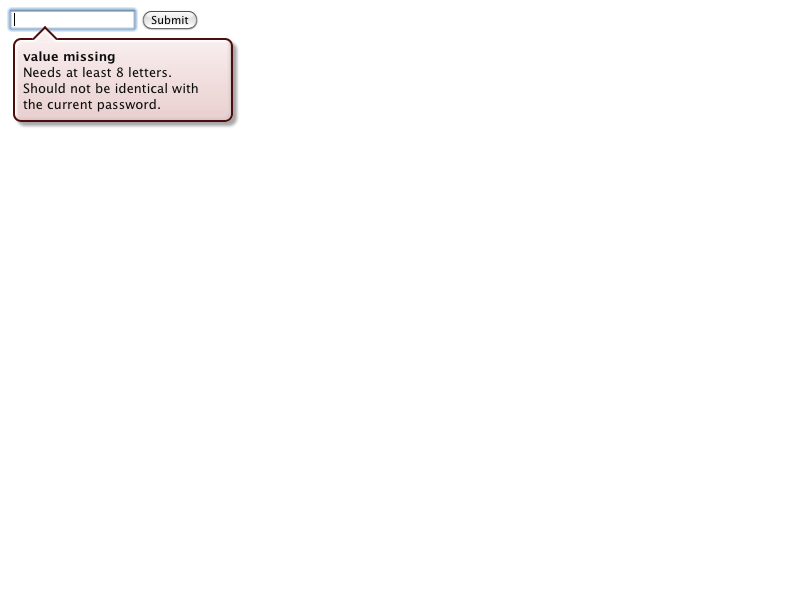
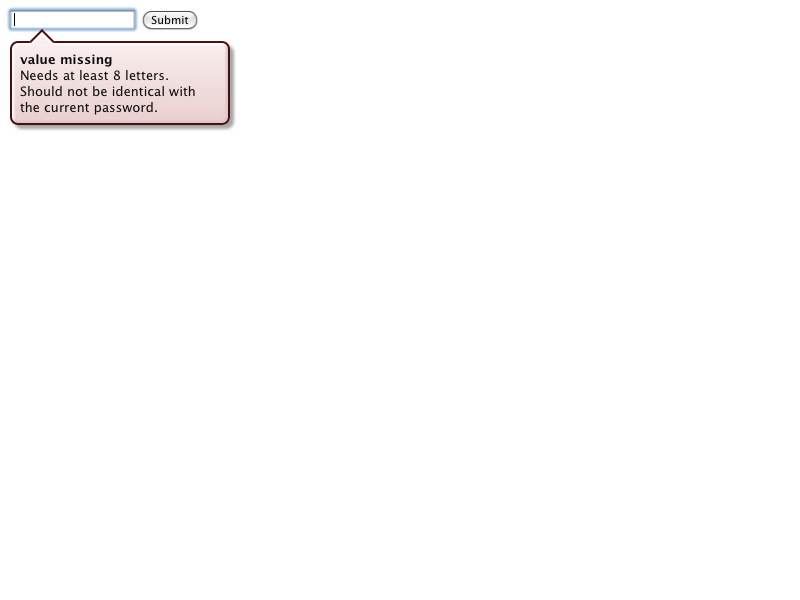
2011-05-11  Kent Tamura  <tkent@chromium.org>
Reviewed by Hajime Morita.

        The position of validation message bubble is wrong for non text fields.
        https://bugs.webkit.org/show_bug.cgi?id=60341

        * fast/forms/resources/common.js: Added. Helper functions for fast/forms.
        * fast/forms/validation-message-on-checkbox-expected.txt: Added.
        * fast/forms/validation-message-on-checkbox.html: Added.
        * fast/forms/validation-message-on-listbox-expected.txt: Added.
        * fast/forms/validation-message-on-listbox.html: Added.
        * fast/forms/validation-message-on-menulist-expected.txt: Added.
        * fast/forms/validation-message-on-menulist.html: Added.
        * fast/forms/validation-message-on-radio-expected.txt: Added.
        * fast/forms/validation-message-on-radio.html: Added.
        * fast/forms/validation-message-on-textarea-expected.txt: Added.
        * fast/forms/validation-message-on-textarea.html: Added.
        * platform/chromium/test_expectations.txt:
        * platform/gtk/Skipped:
        * platform/mac/fast/forms/validation-message-appearance-expected.png: Updated.
        * platform/mac/fast/forms/validation-message-appearance-expected.txt: Updated.
        * platform/qt/Skipped:
        * platform/win/Skipped:
2011-05-11  Kent Tamura  <tkent@chromium.org>

        Reviewed by Hajime Morita.

        The position of validation message bubble is wrong for non text fields.
        https://bugs.webkit.org/show_bug.cgi?id=60341
[…]

Changed region(s): [[0.0, 0.03, 0.3125, 0.24]]

diff --git a/fast/forms/validation-message-on-menulist.html b/fast/forms/validation-message-on-menulist.html
@@ -1,0 +1,51 @@
+<!DOCTYPE html>
+<head>
+<script src="../js/resources/js-test-pre.js"></script>
+<script src="resources/common.js"></script>
+</head>
+<body>
+<p>Check if the appearance of a validation message for &lt;select> is good.</p>
+
+<form action="validation-message-on-menulist.html">
+<select id=host name=select required>
+<option value="">Choose one
+<option>One
+</select>
+<input type=submit id=submit>
+</form>
+
+<div id="console"></div>
+<script>
+function getTextNode(bubble) {
+    return bubble.lastChild.firstChild;
+}
+
+function check() {
+    hostRect = getAbsoluteRect(host);
+    bubbleRect = getAbsoluteRect(getValidationMessageBubbleNode(host));
+    debug('The top of the bubble should be on the bottom of the host node:');
+    shouldBe('bubbleRect.top', 'hostRect.bottom');
+    debug('');
+    debug('A long text should fit in the bubble:');
+    shouldBeGreaterThanOrEqual('getValidationMessageBubbleNode(host).offsetWidth', 'getTextNode(getValidationMessageBubbleNode(host)).offsetWidth');
+    debug('');
+
+    finishJSTest();
+}
+
+var host = $('host');
+var hostRect;
+var bubbleRect;
+host.setCustomValidity('Testing a long validation message in order to check white-space:pre in the UA stylesheet does not affect to the validation message appearance.');
+$('submit').click();
+if (window.layoutTestController) {
+    setTimeout(check, 0);
+} else {
+    debug('The test requires layoutTestController.');
+}
+
+var jsTestIsAsync = true;
+var successfullyParsed = true;
+</script>
+<script src="../js/resources/js-test-post.js"></script>
+</body>

diff --git a/fast/forms/validation-message-on-checkbox.html b/fast/forms/validation-message-on-checkbox.html
@@ -1,0 +1,45 @@
+<!DOCTYPE html>
+<head>
+<script src="../js/resources/js-test-pre.js"></script>
+<script src="resources/common.js"></script>
+</head>
+<body>
+<p>Check if the position of a validation message for a checkbox is good.</p>
+
+<form action="validation-message-on-checkbox.html">
+<input type=checkbox id=host required>
+<input type=submit id=submit>
+</form>
+
+<div id="console"></div>
+<script>
+function check() {
+    hostRect = getAbsoluteRect(host);
+    bubbleRect = getAbsoluteRect(getValidationMessageBubbleNode(host));
+    debug('The top of the bubble should be on the bottom of the host node:');
+    shouldBe('bubbleRect.top', 'hostRect.bottom');
+    debug('');
+    debug('The left position of the bubble should be 0 because of no enough space:');
+    shouldBeTrue('hostRect.left + hostRect.width / 2 < 32');
+    shouldBe('bubbleRect.left', '0');
+    debug('');
+
+    finishJSTest();
+}
+
+var host = $('host');
+var hostRect;
+var bubbleRect;
+$('submit').click();
+if (window.layoutTestController) {
+    setTimeout(check, 0);
+} else {
+    debug('The test requires layoutTestController.');
+}
+
+var jsTestIsAsync = true;
+var successfullyParsed = true;
+</script>
+<script src="../js/resources/js-test-post.js"></script>
+</body>
+

diff --git a/fast/forms/validation-message-on-textarea.html b/fast/forms/validation-message-on-textarea.html
@@ -1,0 +1,43 @@
+<!DOCTYPE html>
+<head>
+<script src="../js/resources/js-test-pre.js"></script>
+<script src="resources/common.js"></script>
+</head>
+<body>
+<p>Check if the position of a validation message for a textarea is good.</p>
+
+<div style="padding: 20px"> <!-- The containing block of the target element is not the body. -->
+<form action="validation-message-on-textarea.html">
+<textarea id=host required style="margin: 31px;"></textarea>
+<input type=submit id=submit>
+</form>
+</div>
+
+<div id="console"></div>
+<script>
+function check() {
+    hostRect = getAbsoluteRect(host);
+    bubbleRect = getAbsoluteRect(getValidationMessageBubbleNode(host));
+    debug('The top of the bubble should be on the bottom of the host node:');
+    shouldBe('bubbleRect.top', 'hostRect.bottom');
+    debug('');
+
+    finishJSTest();
+}
+
+var host = $('host');
+var hostRect;
+var bubbleRect;
+$('submit').click();
+if (window.layoutTestController) {
+    setTimeout(check, 0);
+} else {
+    debug('The test requires layoutTestController.');
+}
+
+var jsTestIsAsync = true;
+var successfullyParsed = true;
+</script>
+<script src="../js/resources/js-test-post.js"></script>
+</body>
+

diff --git a/fast/forms/validation-message-on-listbox.html b/fast/forms/validation-message-on-listbox.html
@@ -1,0 +1,44 @@
+<!DOCTYPE html>
+<head>
+<script src="../js/resources/js-test-pre.js"></script>
+<script src="resources/common.js"></script>
+</head>
+<body>
+<p>Check if the position of a validation message for a listbox is good.</p>
+
+<form action="validation-message-on-listbox.html">
+<select id=host name=select multiple required>
+<option>One
+<option>Two
+</select>
+<input type=submit id=submit>
+</form>
+
+<div id="console"></div>
+<script>
+function check() {
+    hostRect = getAbsoluteRect(host);
+    bubbleRect = getAbsoluteRect(getValidationMessageBubbleNode(host));
+    debug('The top of the bubble should be on the bottom of the host node:');
+    shouldBe('bubbleRect.top', 'hostRect.bottom');
+    debug('');
+
+    finishJSTest();
+}
+
+var host = $('host');
+var hostRect;
+var bubbleRect;
+$('submit').click();
+if (window.layoutTestController) {
+    setTimeout(check, 0);
+} else {
+    debug('The test requires layoutTestController.');
+}
+
+var jsTestIsAsync = true;
+var successfullyParsed = true;
+</script>
+<script src="../js/resources/js-test-post.js"></script>
+</body>
+

diff --git a/fast/forms/validation-message-on-radio.html b/fast/forms/validation-message-on-radio.html
@@ -1,0 +1,41 @@
+<!DOCTYPE html>
+<head>
+<script src="../js/resources/js-test-pre.js"></script>
+<script src="resources/common.js"></script>
+</head>
+<body>
+<p>Check if the position of a validation message for a radio button is good.</p>
+
+<form action="validation-message-on-radio.html">
+<input type=radio name=radio required id=host style="margin-left:100px"><br>
+<input type=submit id=submit>
+</form>
+
+<div id="console"></div>
+<script>
+function check() {
+    hostRect = getAbsoluteRect(host);
+    bubbleRect = getAbsoluteRect(getValidationMessageBubbleNode(host));
+    debug('The top of the bubble should be on the bottom of the host node:');
+    shouldBe('bubbleRect.top', 'hostRect.bottom');
+    debug('');
+
+    finishJSTest();
+}
+
+var host = $('host');
+var hostRect;
+var bubbleRect;
+$('submit').click();
+if (window.layoutTestController) {
+    setTimeout(check, 0);
+} else {
+    debug('The test requires layoutTestController.');
+}
+
+var jsTestIsAsync = true;
+var successfullyParsed = true;
+</script>
+<script src="../js/resources/js-test-post.js"></script>
+</body>
+

diff --git a/fast/forms/resources/common.js b/fast/forms/resources/common.js
@@ -1,0 +1,17 @@
+function $(id) {
+    return document.getElementById(id);
+}
+
+function getValidationMessageBubbleNode(host) {
+    // FIXME: We should search for a pseudo ID.
+    return layoutTestController.shadowRoot(host).lastChild;
+}
+
+function getAbsoluteRect(element) {
+    var rect = element.getBoundingClientRect();
+    rect.top += document.body.scrollTop;
+    rect.bottom += document.body.scrollTop;
+    rect.left += document.body.scrollLeft;
+    rect.right += document.body.scrollLeft;
+    return rect;
+}
